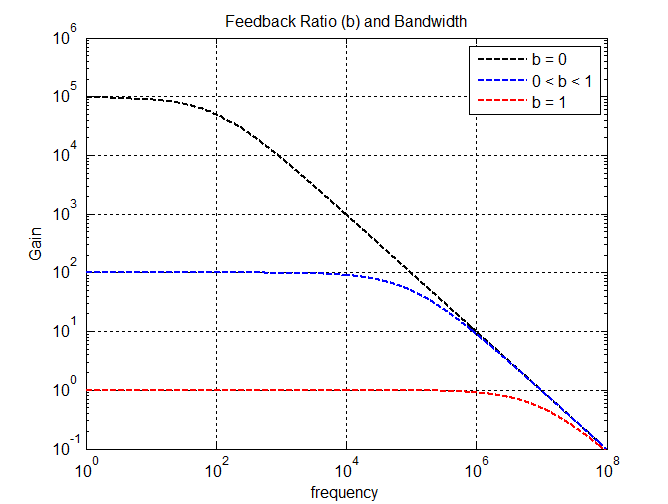
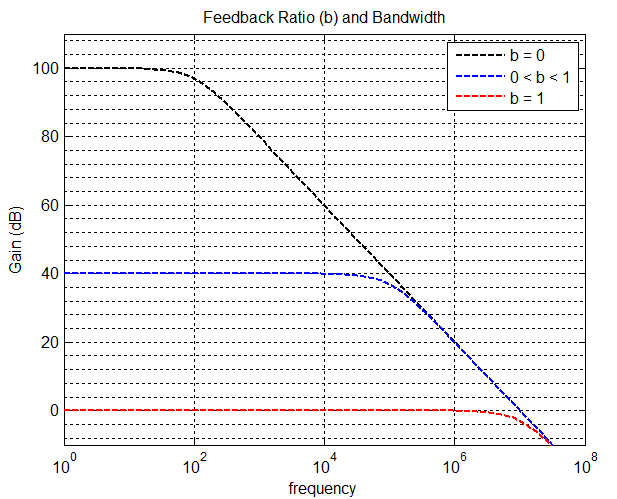
changed units on cap touch page to dB

diff --git a/matlab/FBratio_gain.m b/matlab/FBratio_gain.m
@@ -6,17 +6,17 @@ Fopen = BW/ADC;
 Fbx = BW/100;
 Fb1 = BW;
 
-f = 1:10:BW*10;
-G = BW./(Fopen+f);
-H = BW./(Fbx+f);
-U = BW./(Fb1+f);
+f = logspace(-1,8);
+G = 20*log10(abs(BW./(j*Fopen+f)));
+H = 20*log10(abs(BW./(j*Fbx+f)));
+U = 20*log10(abs(BW./(j*Fb1+f)));
 
 zero = ones(size(f));
 
-loglog(f,G,'--','Color','k','Linewidth',1.5); hold on;
-loglog(f,H,'--','Color','b','Linewidth',1.5);
-loglog(f,U,'--','Color','r','Linewidth',1.5); hold off;
-axis([1 BW*10 .1 ADC*10])
+semilogx(f,G,'--','Color','k','Linewidth',1.5); hold on;
+semilogx(f,H,'--','Color','b','Linewidth',1.5);
+semilogx(f,U,'--','Color','r','Linewidth',1.5); hold off;
+axis([1 BW*10 -10 110])
 grid on
 grid minor
 
@@ -24,4 +24,4 @@ legend('b = 0', '0 < b < 1', 'b = 1')
 set(gcf,'Color','white')
 title('Feedback Ratio (b) and Bandwidth')
 xlabel('frequency');
-ylabel('Gain');
+ylabel('Gain (dB)');
